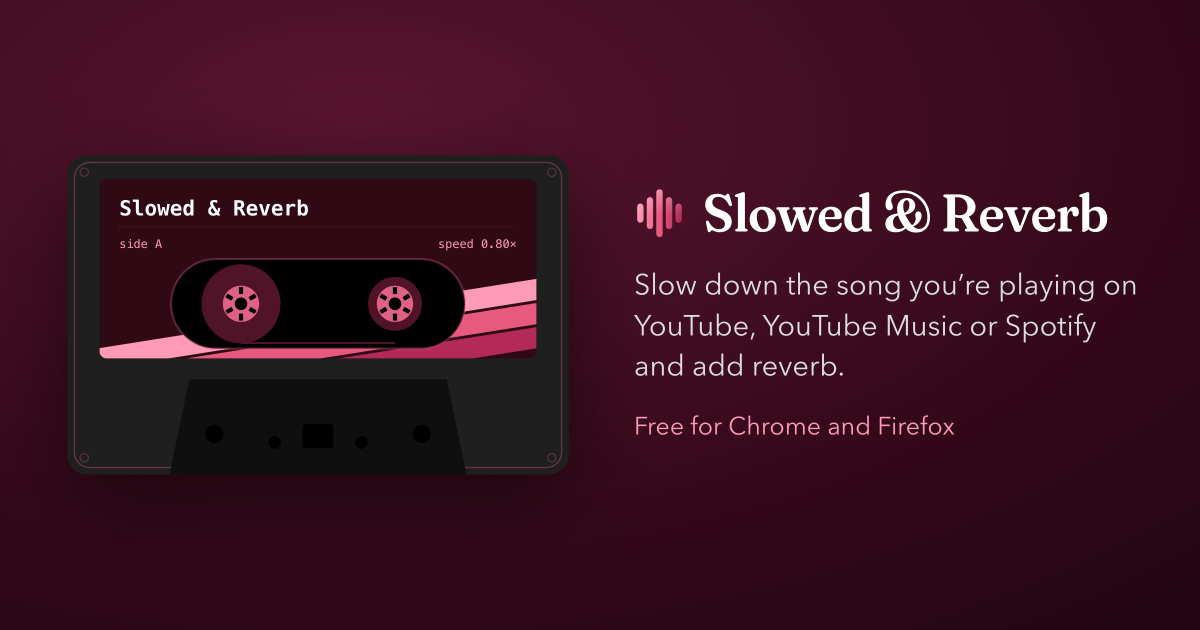
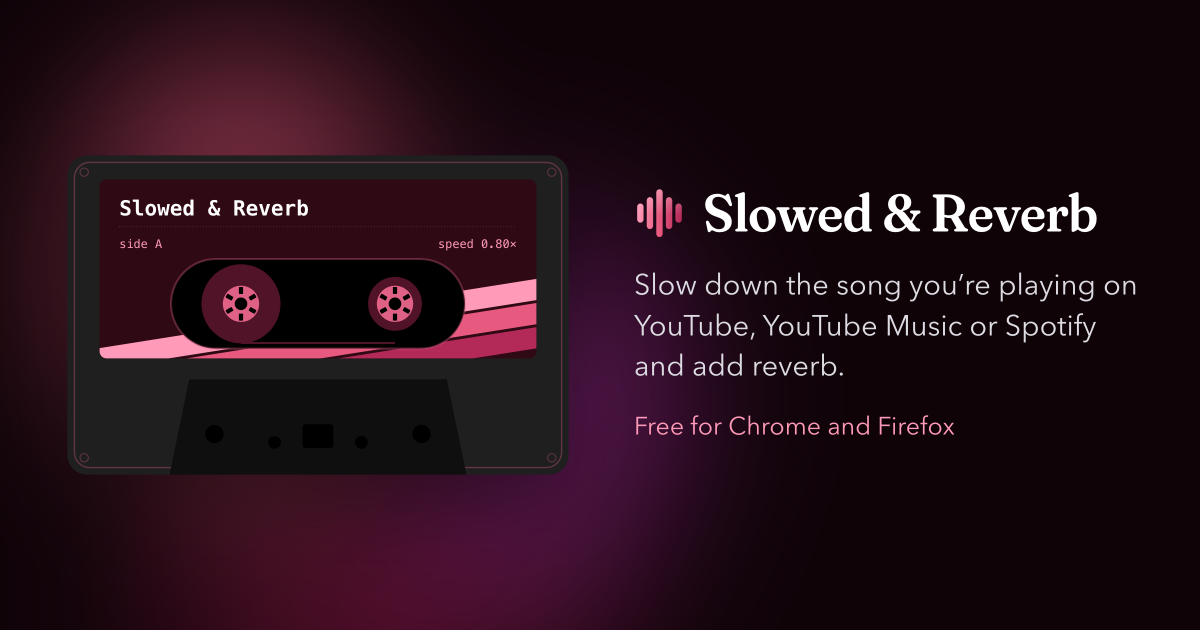
Give the promo images the website's glow and a plain ampersand
The promo tile, the marquee and the site's link preview now use the home
page's glow: a near-black cherry ground with blurred pink and violet light
behind the cassette. The name on the marquee and link preview uses Fraunces'
plain "&" (ss01) instead of the curly one it draws at display sizes. The
site's font file already includes it, so the site itself is unchanged.

diff --git a/scripts/render-store-assets.js b/scripts/render-store-assets.js
@@ -69,9 +69,21 @@ const COLOR = Object.freeze({
   label: 'hsl(343 66% 11%)',
   body: '#dcdce2'
 });
-// Promo images fill their area with a saturated deep pink, so their edges read
-// on the store's light gray and dark cards alike.
-const PROMO_BG = 'radial-gradient(120% 120% at 30% 20%, #5a1530 0%, #34091a 55%, #1d0510 100%)';
+// Promo images use the website's glow: a near-black cherry ground with blurred
+// pink and violet light behind the cassette (site/styles.css, Terminal theme),
+// a little stronger than on the site so it still shows at store size.
+const GLOW_GROUND = '#0f0308';
+const GLOW_LIGHT = [
+  'radial-gradient(40% 50% at 35% 45%, rgba(232,89,127,.85), transparent 70%)',
+  'radial-gradient(35% 45% at 68% 60%, rgba(150,40,140,.72), transparent 70%)',
+  'radial-gradient(50% 40% at 50% 85%, rgba(120,20,60,.7), transparent 70%)'
+].join(', ');
+
+function glow({ x, y, width, height, blur }) {
+  return `<div style="position:absolute;inset:0;background:${GLOW_GROUND}"></div>
+    <div style="position:absolute;left:${x - width / 2}px;top:${y - height / 2}px;width:${width}px;height:${height}px;
+         filter:blur(${blur}px);background:${GLOW_LIGHT}"></div>`;
+}
 
 const POPUP_VARIANTS = Object.freeze({
   slowed: { theme: 'pink', settings: { ...DEFAULT_SETTINGS, speed: 0.8, reverb: 40 } },
@@ -191,6 +203,9 @@ const page = (width, height, body) => `<!doctype html><html><head><meta charset=
   .headline { font-size:${HEADLINE}px; line-height:1.06; text-wrap:balance; }
   .subline { font-size:${SUBLINE}px; line-height:1.38; color:${G.body}; margin-top:18px; text-wrap:pretty; }
   .lift { box-shadow:${G.lift}; }
+  /* Fraunces draws a curly "&" at display sizes; ss01 picks its plain one,
+     which the site's font file already includes. */
+  .amp { font-feature-settings:"ss01"; }
   ${CASSETTE_CSS}
 </style></head><body>${body}</body></html>`;
 
@@ -294,7 +309,7 @@ const themeRow = () => `
 // --- promo images ----------------------------------------------------------
 function promoTile() {
   return page(440, 280, `
-    <div style="position:absolute;inset:0;background:${PROMO_BG}"></div>
+    ${glow({ x: 220, y: 150, width: 520, height: 360, blur: 28 })}
     <div class="cassette" style="position:absolute;left:30px;top:15px;width:380px;
          filter:drop-shadow(0 14px 22px rgba(0,0,0,.45))">${nameOnlyCassette()}</div>`);
 }
@@ -304,12 +319,12 @@ function banner(width, height) {
   const tape = Math.round(Math.min(height * 0.96, width * 0.42));
   const name = Math.round(Math.min(height * 0.11, width * 0.044));
   return page(width, height, `
-    <div style="position:absolute;inset:0;background:${PROMO_BG}"></div>
+    ${glow({ x: Math.round(width * 0.055) + tape / 2 + 60, y: height / 2, width: tape * 1.8, height: height * 1.4, blur: 55 })}
     <div class="cassette" style="position:absolute;left:${Math.round(width * 0.055)}px;top:50%;transform:translateY(-50%);
          width:${tape}px;filter:drop-shadow(0 26px 44px rgba(0,0,0,.5))">${cassetteMarkup()}</div>
     <div style="position:absolute;left:${Math.round(width * 0.055) + tape + 64}px;right:${MARGIN}px;top:50%;transform:translateY(-50%)">
       <div class="display" style="display:flex;align-items:center;gap:18px;font-size:${name}px;line-height:1;white-space:nowrap">
-        ${mark(Math.round(name * 0.97))}<span>Slowed &amp; Reverb</span></div>
+        ${mark(Math.round(name * 0.97))}<span>Slowed <span class="amp">&amp;</span> Reverb</span></div>
       <div style="font-size:${Math.round(height * 0.046)}px;line-height:1.4;color:${COLOR.body};margin-top:26px">
         Slow down the song you’re playing on YouTube, YouTube Music or Spotify and add reverb.</div>
       <div style="font-size:${Math.round(height * 0.039)}px;color:${COLOR.light};margin-top:22px">Free for Chrome and Firefox</div>

diff --git a/store-assets/README.md b/store-assets/README.md
@@ -62,10 +62,13 @@ Check new art at that size before uploading, not only at full size.
   `scripts/popup-preview.js`. Nothing in it is mocked up.
 - The cassette is read from `site/index.html`, so the store art and the site
   share one drawing.
-- Promo images fill their area with a saturated deep pink so their edges read on
-  the store's light gray and dark cards. The promo tile shows the cassette with
-  only its name on the label; Google asks for no text on promotional images, and
-  the label is part of the drawing rather than a caption.
+- Promo images use the website's glow: a near-black cherry ground with blurred
+  pink and violet light behind the cassette, as on the home page. The promo
+  tile shows the cassette with only its name on the label; Google asks for no
+  text on promotional images, and the label is part of the drawing rather than
+  a caption.
+- The name in Fraunces uses its plain "&" (the `ss01` alternate) rather than
+  the curly one it draws at display sizes.
 - Google and Spotify logos are not used in the promotional images, and
   compatibility wording does not imply affiliation or endorsement.
 
